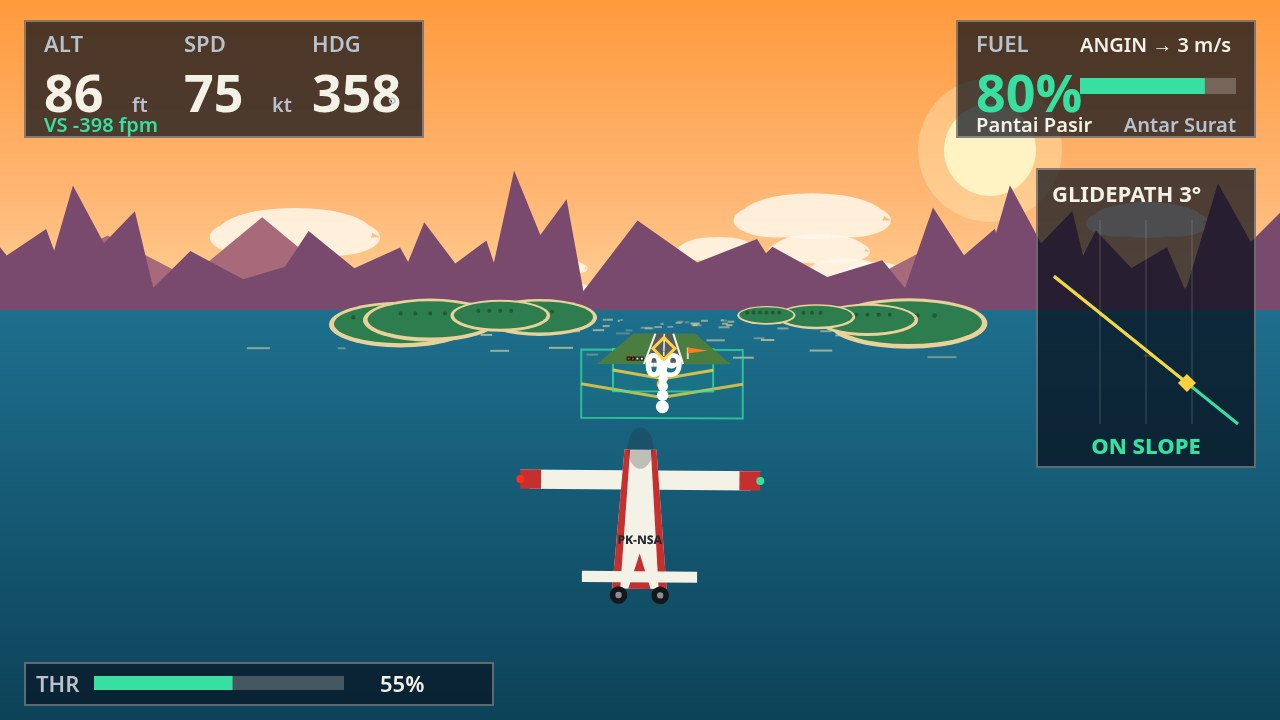
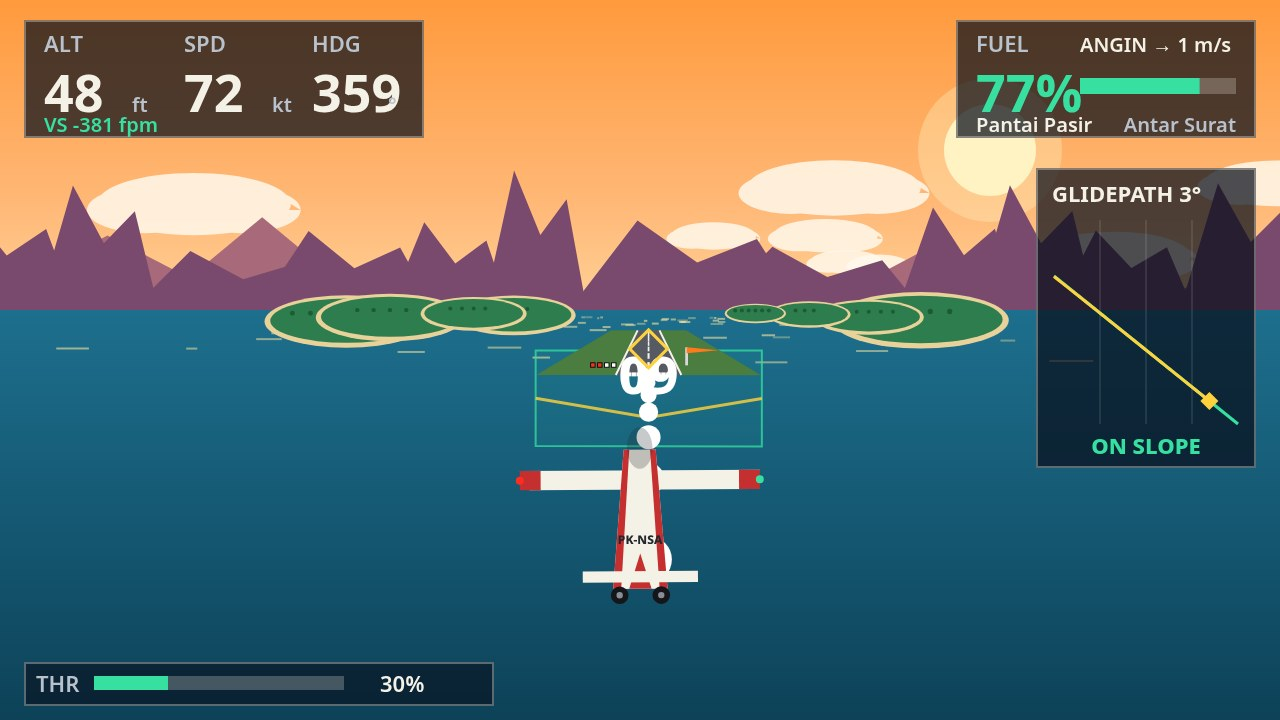
Restage cover to short final (PLAY_DIST 500 -> 280)
The ?shot=play cover froze the approach 500 m out, where the runway was
a small green patch and the PAPI was invisible. At 280 m the runway
trapezoid, threshold, runway number 09 and the 2+2 PAPI lamps read
clearly, the 150 m corridor gate is still ahead of the aircraft, and the
nearest approach lights stay hidden behind the aircraft instead of
ballooning into a blob. No game rule changed: only the cover staging.
Screenshots 2-4 re-rendered from the same run and came out byte-identical.

diff --git a/game/src/shots.js b/game/src/shots.js
@@ -12,7 +12,11 @@ import { idealAlt } from './glidepath.js';
 import { SCREEN_OVER, SCREEN_PLAY, SCREEN_TITLE } from './render.js';
 
 const START_SECONDS = 8;
-const PLAY_DIST = 500;
+// Short final: close enough that the runway, threshold bars and PAPI read
+// clearly in the cover frame, but not so close that the approach-light row
+// nearest the camera balloons into a blob below the aircraft, and far
+// enough out that the 150 m corridor gate is still ahead of the aircraft.
+const PLAY_DIST = 280;
 const LIMIT_SECONDS = 120;
 
 function clamp(value, min, max) {
